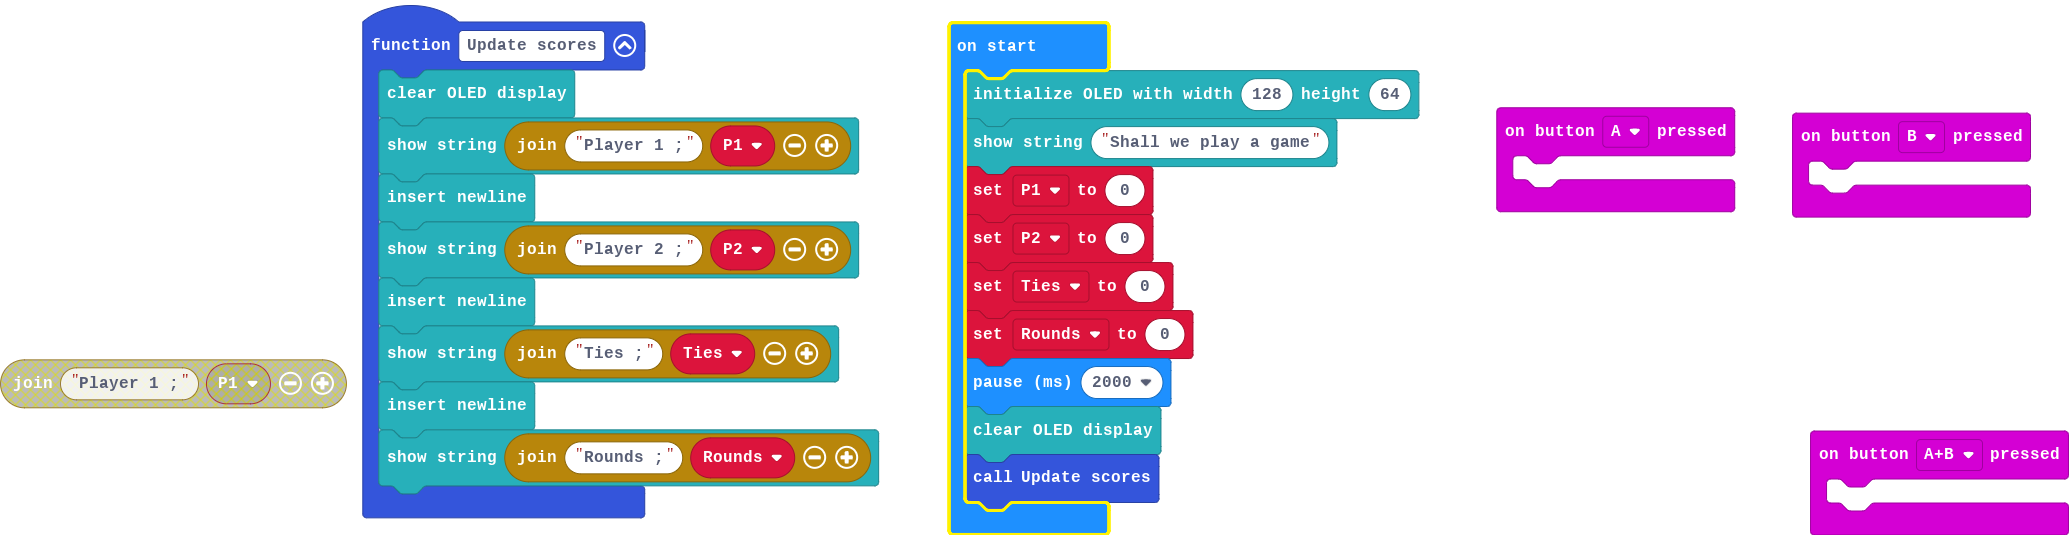
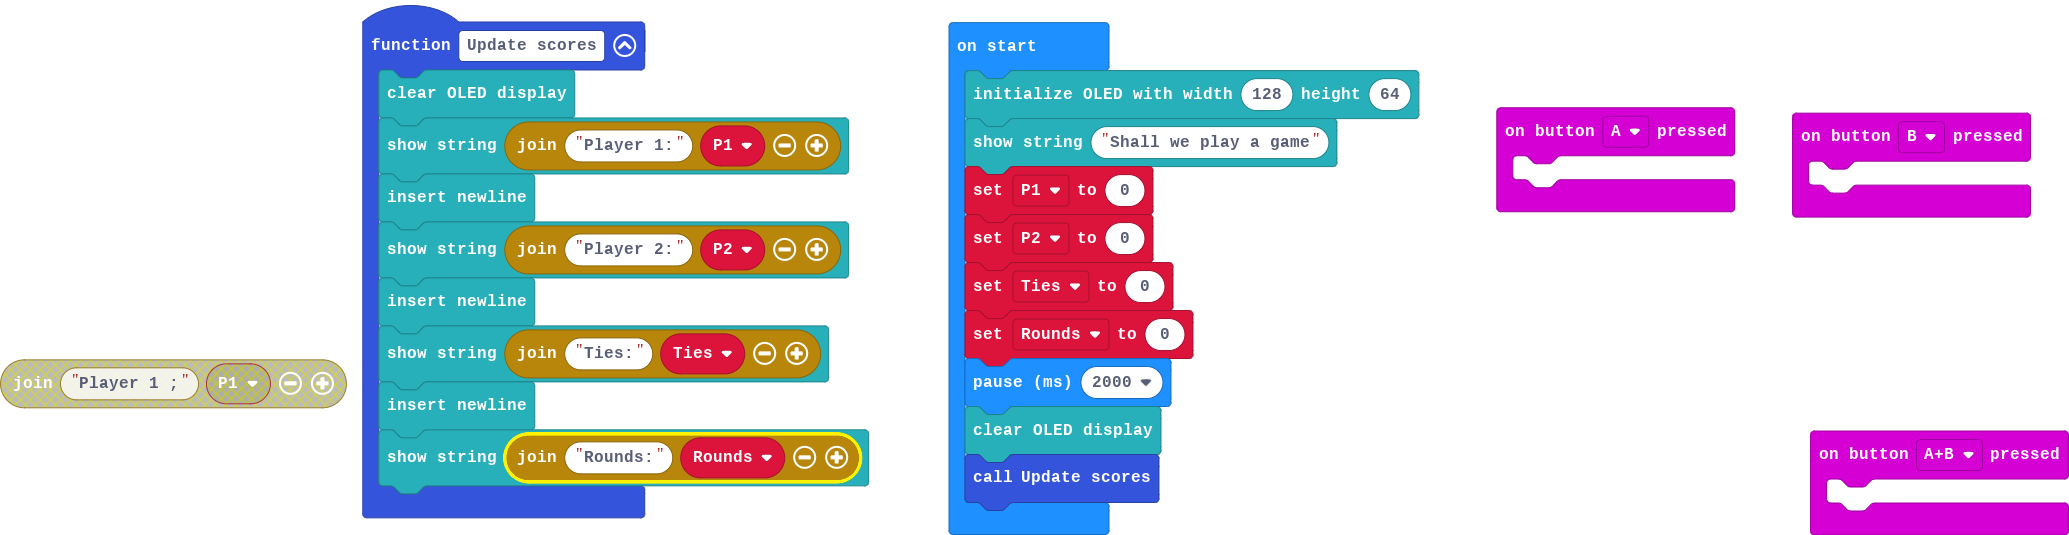
Update main.blocks, main.ts

diff --git a/main.ts b/main.ts
@@ -9,13 +9,13 @@ input.onButtonPressed(Button.B, function () {
 })
 function Update_scores () {
     OLED.clear()
-    OLED.writeStringNewLine("Player 1 ;" + P1)
+    OLED.writeStringNewLine("Player 1:" + P1)
     OLED.newLine()
-    OLED.writeStringNewLine("Player 2 ;" + P2)
+    OLED.writeStringNewLine("Player 2:" + P2)
     OLED.newLine()
-    OLED.writeStringNewLine("Ties ;" + Ties)
+    OLED.writeStringNewLine("Ties:" + Ties)
     OLED.newLine()
-    OLED.writeStringNewLine("Rounds ;" + Rounds)
+    OLED.writeStringNewLine("Rounds:" + Rounds)
 }
 let Rounds = 0
 let Ties = 0
